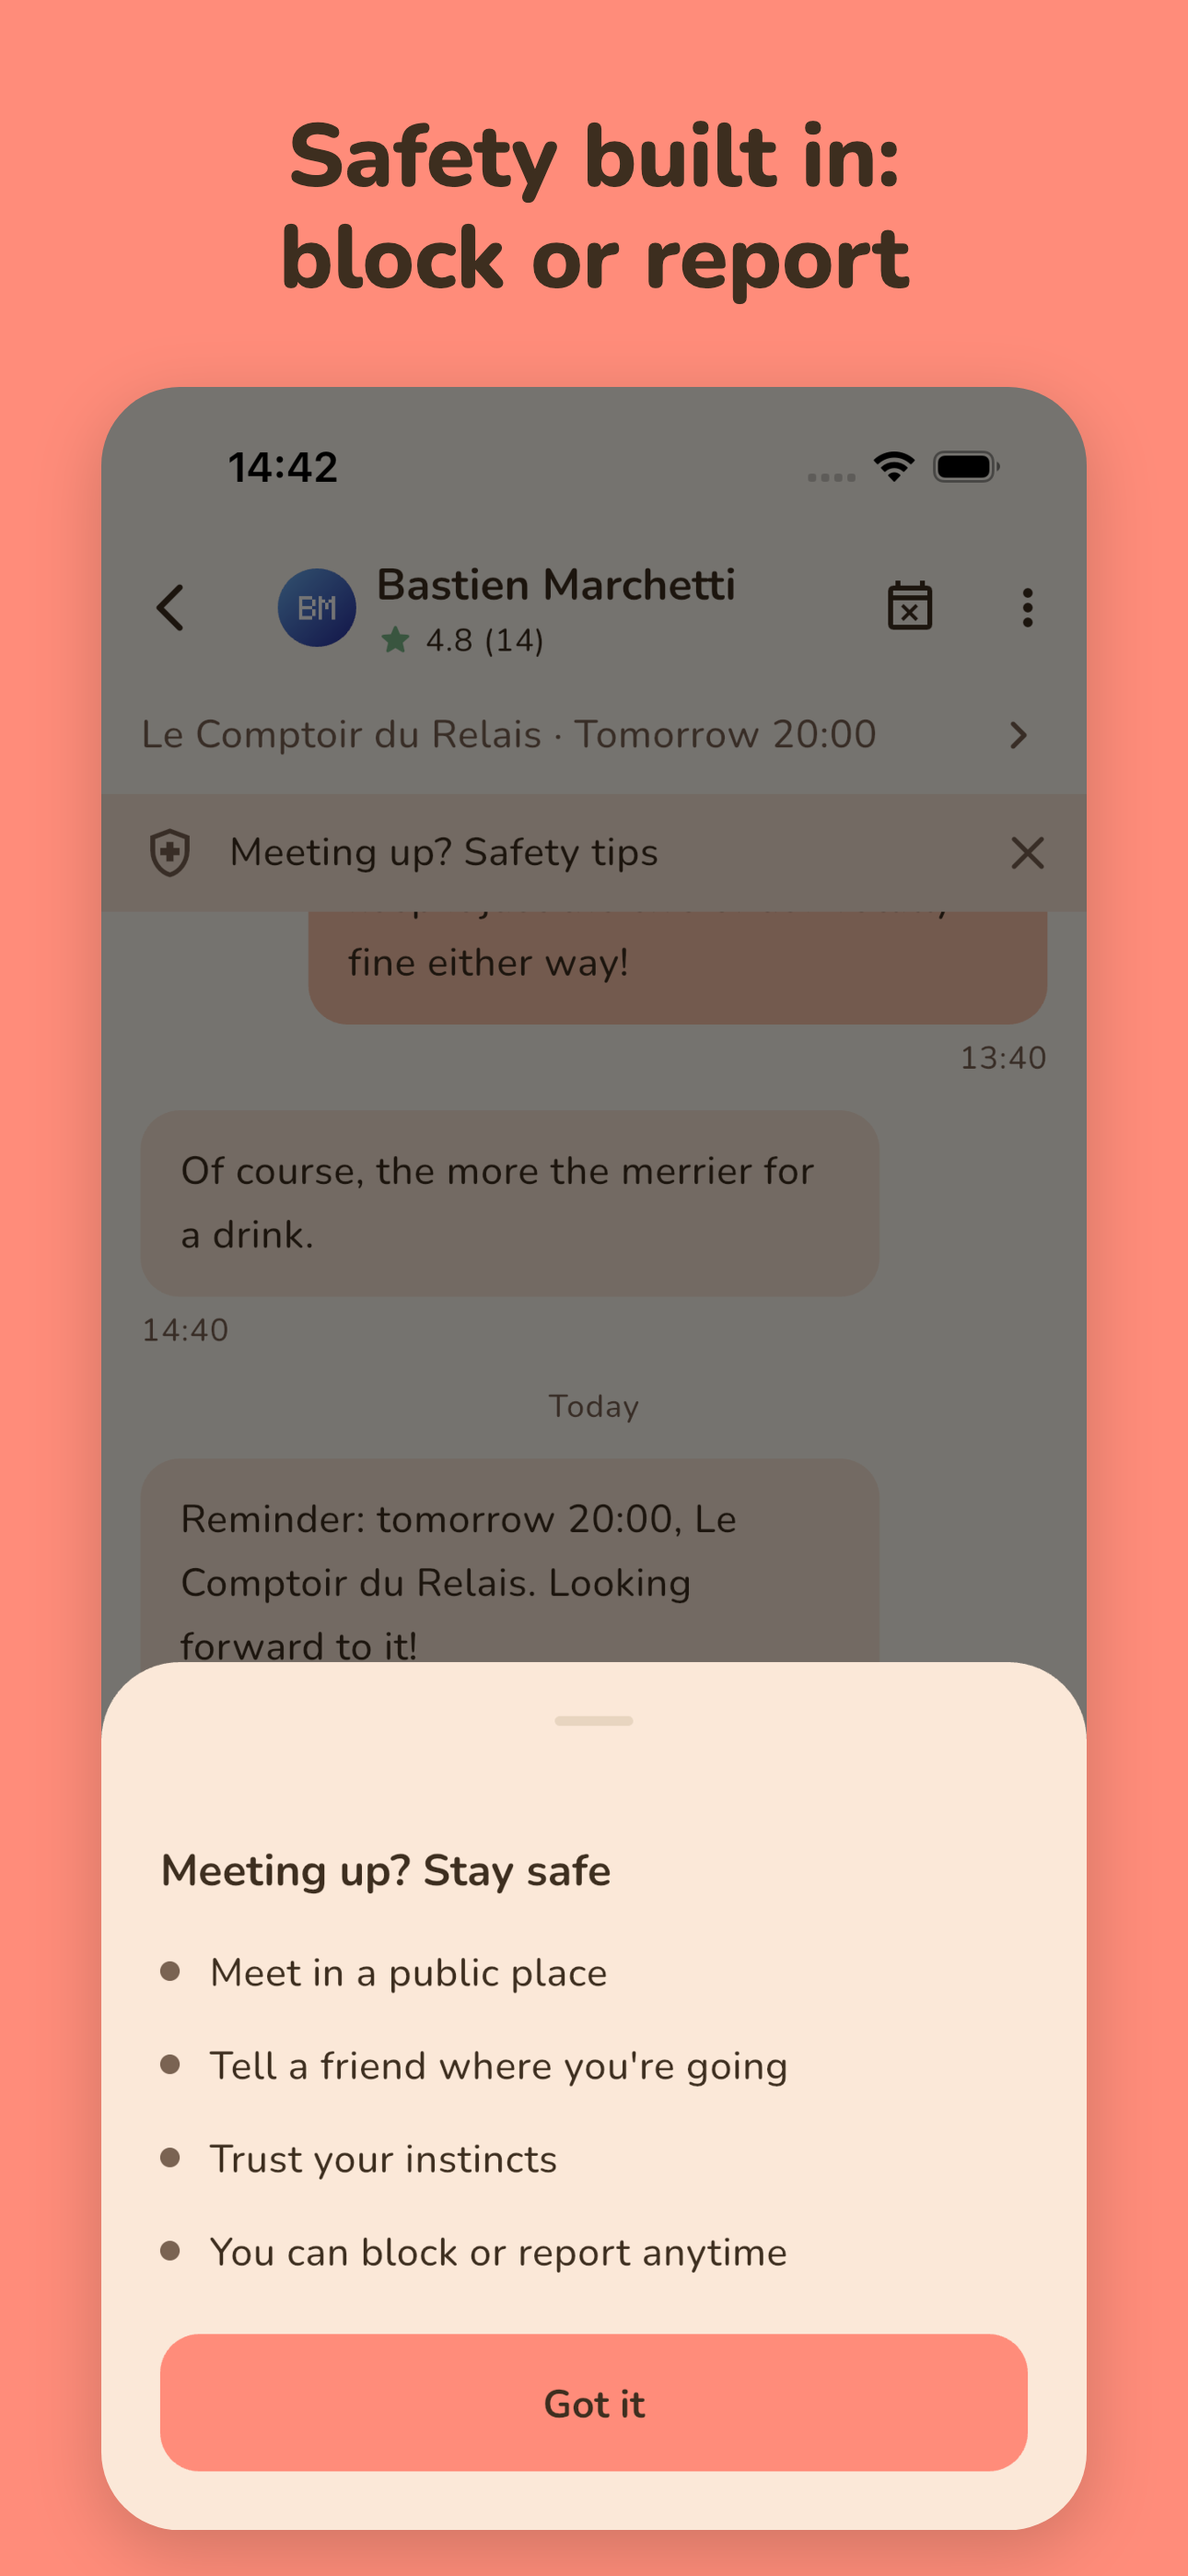
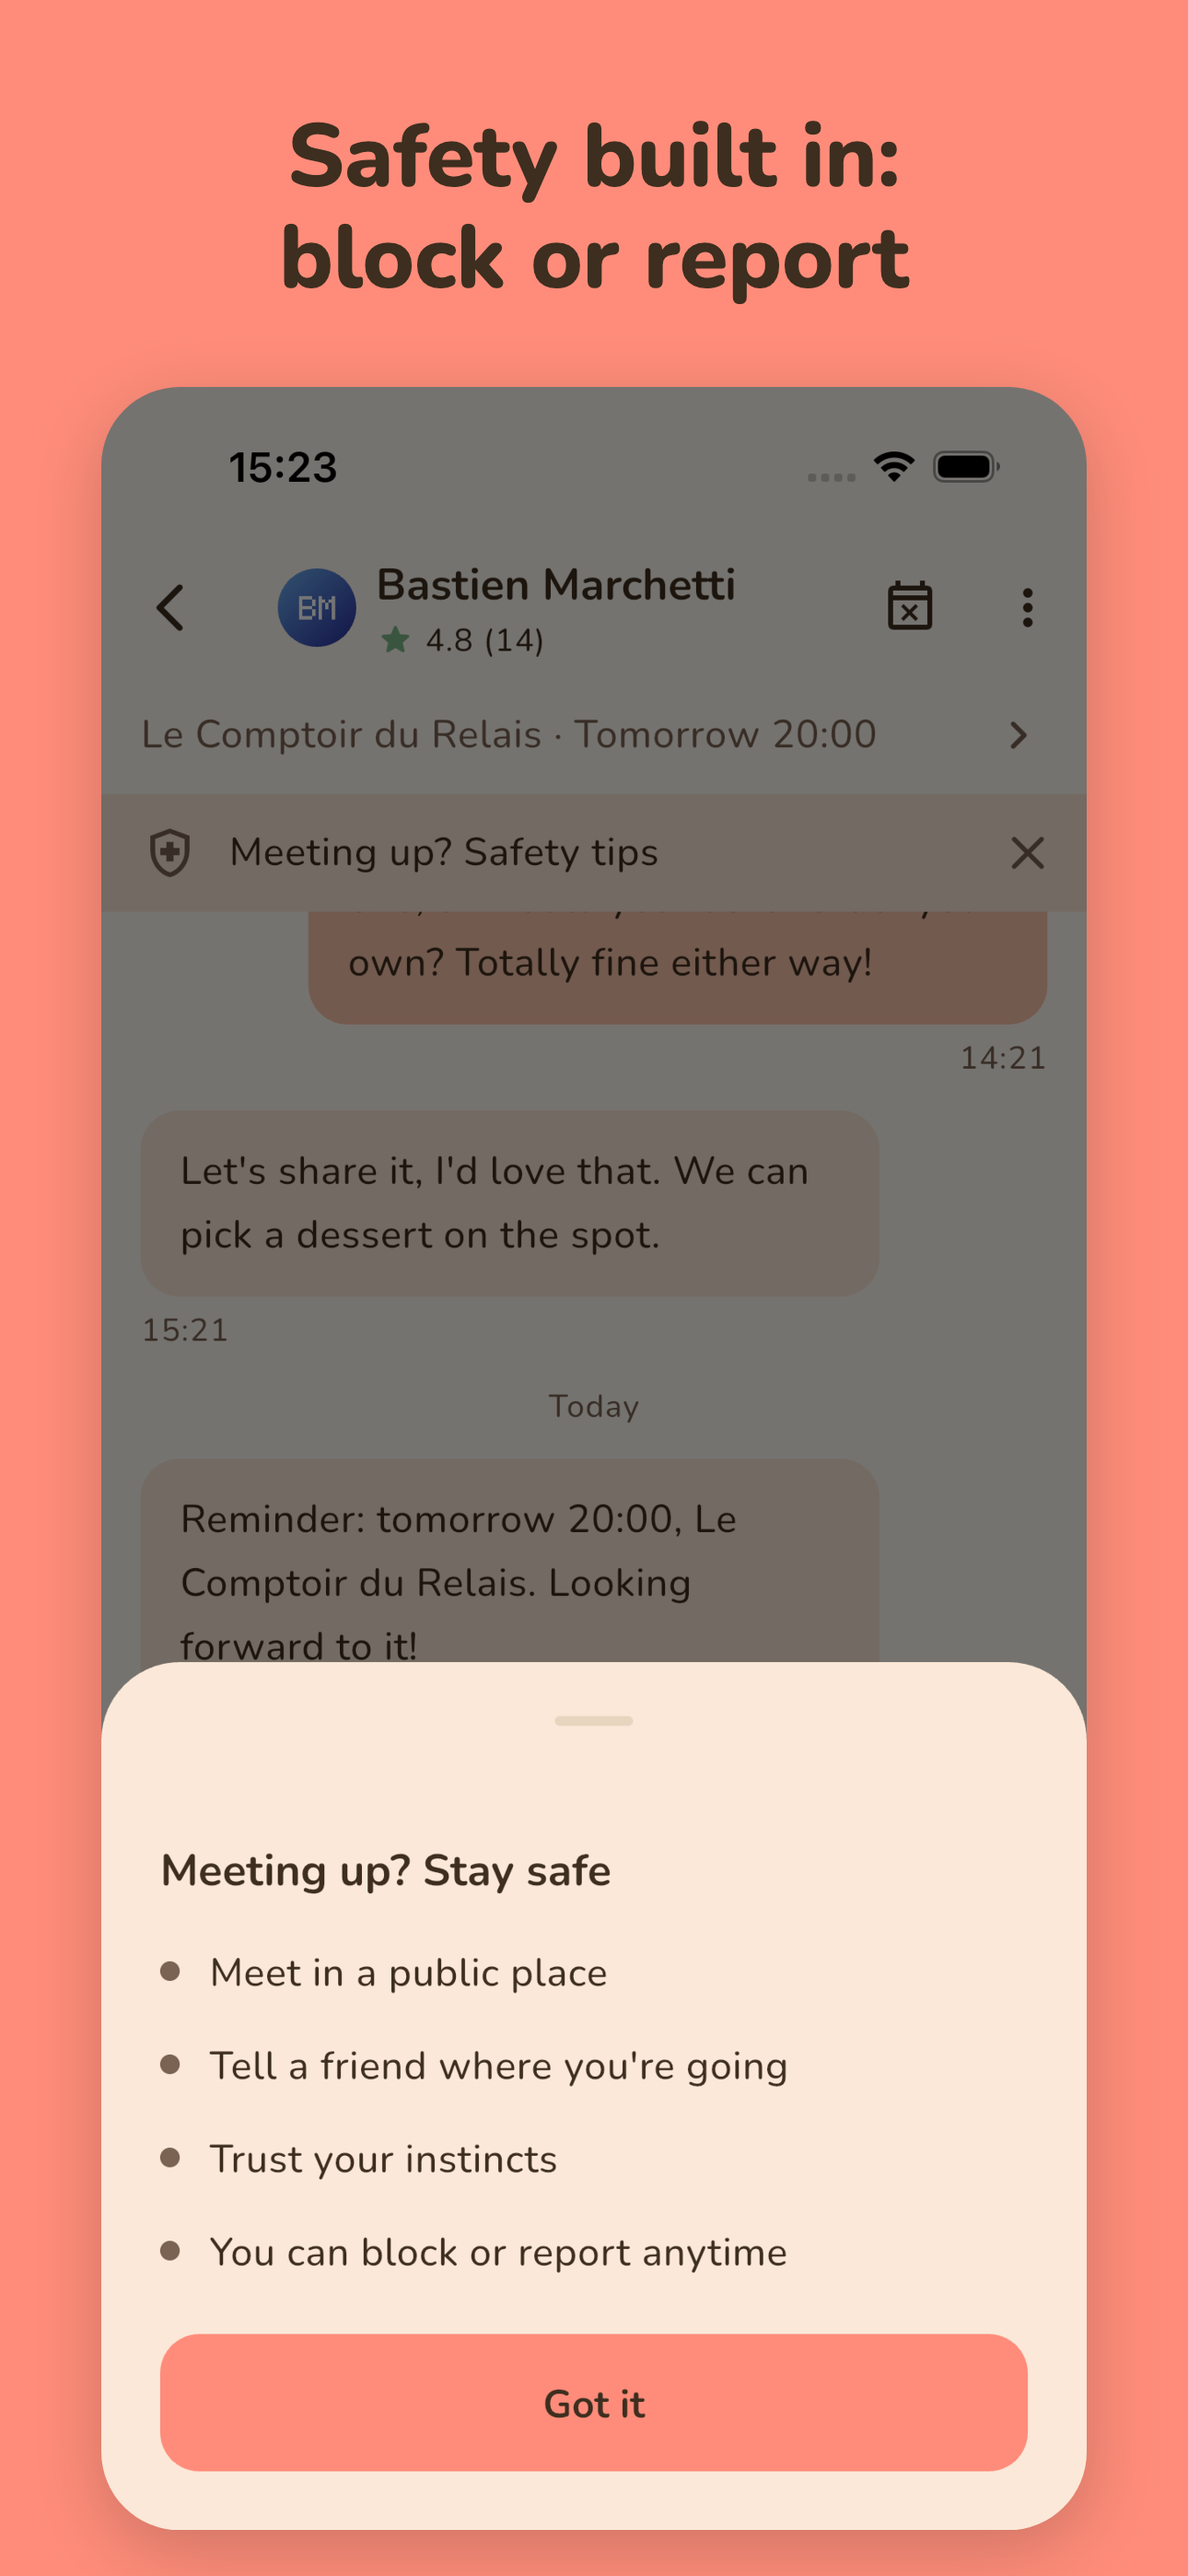
fix(store): 1:1-consistent chat seed and regenerated screenshots

Changed region(s): [[0.155, 0.4356, 0.6512, 0.529], [0.2171, 0.1556, 0.2791, 0.1867], [0.4961, 0.3734, 0.5271, 0.4045]]

diff --git a/ux_audit/support/world.dart b/ux_audit/support/world.dart
@@ -330,15 +330,14 @@ const _mainChatEn = <UxChatMessage>[
     minutesAgo: 1500,
     mine: true,
     text:
-        'By the way, I might bring a friend along for the aperitif only. '
-        'She lives around the corner and wants to say hi before dinner. '
-        'Would that be okay with you, or would you rather keep it just '
-        'the two of us? Totally fine either way!',
+        'By the way, I read the fish dish is the house specialty. Want to '
+        'share one, or would you rather order your own? Totally fine '
+        'either way!',
   ),
   (
     minutesAgo: 1440,
     mine: false,
-    text: 'Of course, the more the merrier for a drink.',
+    text: "Let's share it, I'd love that. We can pick a dessert on the spot.",
   ),
   (
     minutesAgo: 190,
@@ -374,11 +373,10 @@ const _mainChatFr = <String>[
   'Petit programme :\n- 20 h devant la porte\n- on partage une '
       'entrée\n- pas de téléphone à table 😄',
   'Deal !',
-  'Au fait, je viendrai peut-être avec une amie, juste pour l’apéro. Elle '
-      'habite à côté et voudrait passer dire bonjour avant le dîner. Ça te '
-      'va, ou tu préfères qu’on reste à deux ? Aucun souci dans les '
-      'deux cas !',
-  'Bien sûr, plus on est de fous, plus on rit, surtout pour un verre.',
+  'Au fait, il paraît que le plat de poisson est la spécialité de la '
+      'maison. On en partage un, ou tu préfères prendre le tien ? Aucun '
+      'souci dans les deux cas !',
+  'Partageons-le, avec plaisir. On choisira le dessert sur place.',
   'Rappel : demain 20 h, Le Comptoir du Relais. J’ai hâte !',
   'On se retrouve là-bas ! 🍷',
   'Par quelle porte, au fait ? Il y en a deux, on dirait.',
